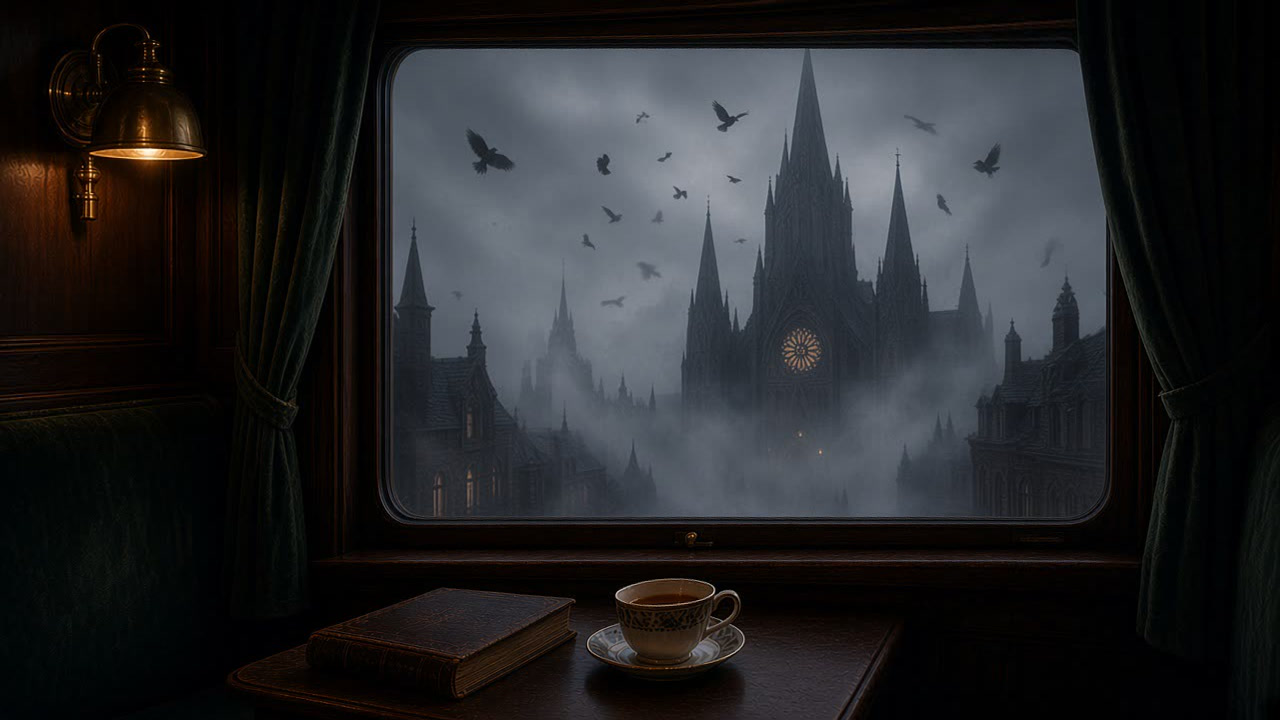
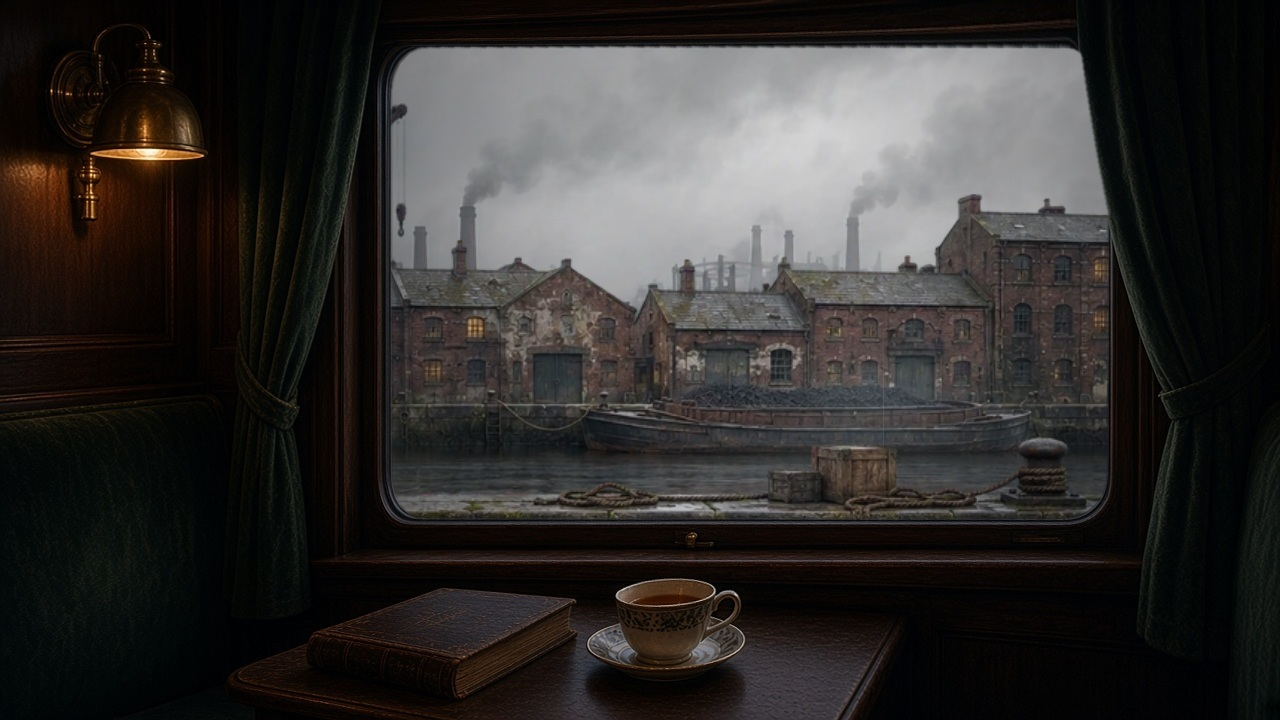
Recompose the Hollowmere journey with clear sightlines and a dusk arrival

diff --git a/js/window.js b/js/window.js
@@ -28,7 +28,9 @@ export class WindowRenderer {
     this.idx = -1; this.run = false;
     this._buildDistance();
     this.stripOrigins = new Map();
+    this.vistaEnds = new Map();
     for (const item of plan.items) {
+      if (item.scene?.panBackdrop) this.vistaEnds.set(item.scene, this.dist(item.end));
       if (item.scene?.paintedStrips && !this.stripOrigins.has(item.scene)) {
         this.stripOrigins.set(item.scene, this.dist(item.start));
       }
@@ -63,7 +65,7 @@ export class WindowRenderer {
     img.onload = () => { e.ok = true; }; img.onerror = () => { e.err = true; };
     img.src = this.base + src; return e;
   }
-  _assetsOf(it) { const s = it?.scene; if (!s) return []; return [s.backdrop, s.mid, s.near, s.landmark?.src, this.crossings[s.exitCut]].filter(Boolean); }
+  _assetsOf(it) { const s = it?.scene; if (!s) return []; return [s.backdrop, s.mid, s.near, s.landmark?.src, s.landmark?.type === 'tunnel' && this.cfg.tunnelWall, this.crossings[s.exitCut]].filter(Boolean); }
   /** Which cruise item is current; preloads its assets and the next few, frees the rest. */
   setItem(idx) {
     this.idx = idx; const items = this.plan.items, want = new Set([this.cfg.frame?.src, this.frame?.src]);
@@ -141,6 +143,18 @@ export class WindowRenderer {
         if (!src) return;
         const painted = scene.paintedStrips;
         const distance = painted ? F - this.stripOrigins.get(scene) : F;
+        if (key === 'backdrop' && scene.panBackdrop) {
+          const plate = this._img(src);
+          if (!plate.ok) return;
+          const span = this.vistaEnds.get(scene) - this.stripOrigins.get(scene);
+          const progress = clamp01(distance / Math.max(1, span));
+          const scale = Math.max(P.w * 1.22 / plate.img.naturalWidth, P.h * 1.03 / plate.img.naturalHeight);
+          const w = plate.img.naturalWidth * scale, h = plate.img.naturalHeight * scale;
+          c.globalAlpha = alpha;
+          c.drawImage(plate.img, P.x - progress * (w - P.w), P.y - (h - P.h) / 2, w, h);
+          c.globalAlpha = 1;
+          return;
+        }
         this._tile(this._img(src), speed, distance, painted ? 0 : ph(src), alpha,
           painted ? 'source-over' : comp, painted ? 0 : shift);
       };
@@ -150,15 +164,17 @@ export class WindowRenderer {
     layer('backdrop', sc.backdrop, 'source-over');
     const fg = S.fog || {}; const fogC = fg.color || '#aab4c4';
     this._fog(fogC, (fg.far ?? 0.35), sc.fogFar, F, 0.13, 0.28, 0.7);
+    // A passing landmark sits behind the shoreline, tree line or nearer rock shelf.
+    const lm = S.landmark;
+    if (lm && S.paintedStrips) this._landmark(it, lm, pos, F, sc);
     layer('mid', sc.mid, 'multiply');
-    // landmark pass-by: slides across the pane once
-    const lm = S.landmark; if (lm) this._landmark(it, lm, pos, F, sc);
+    if (lm && !S.paintedStrips) this._landmark(it, lm, pos, F, sc);
     this._fog(fogC, (fg.near ?? 0.28), sc.fogNear, F, 0.61, 0.5, 0.62);
     layer('near', sc.near, 'multiply', P.h * 0.015 * Math.sin(pos * 9.1) * swaySpeed);
     // weather
     this._weather(S, pv, a, pos, F, sp);
     // tunnel darkness (procedural landmark)
-    if (lm && lm.type === 'tunnel') this._tunnel(it, lm, pos);
+    if (lm && lm.type === 'tunnel') this._tunnel(it, lm, pos, F);
     if (arriving) this._crossing(arriving, pos - it.start);
     if (departing) this._crossing(departing, pos - it.end);
     // light: slow cloud drift + glass vignette
@@ -189,18 +205,28 @@ export class WindowRenderer {
     const c = this.c, P = this.pane, dh = P.h * (lm.height ?? 0.85), dw = dh * (lm.w && lm.h ? lm.w / lm.h : e.img.naturalWidth / e.img.naturalHeight);
     const u = (pos - win[0]) / (win[1] - win[0]), x = P.x + P.w + dw * 0.02 - u * (P.w + dw * 1.04), y = P.y + P.h * (lm.base ?? 0.95) - dh;
     const edge = smooth(u * 6) * smooth((1 - u) * 6);
-    c.globalCompositeOperation = 'multiply'; c.globalAlpha = (lm.alpha ?? 0.95) * (0.35 + 0.65 * edge);
+    c.globalCompositeOperation = it.scene.paintedStrips ? 'source-over' : 'multiply'; c.globalAlpha = (lm.alpha ?? 0.95) * (0.35 + 0.65 * edge);
     c.drawImage(e.img, x, y, dw, dh); c.globalAlpha = 1; c.globalCompositeOperation = 'source-over';
   }
-  _tunnel(it, lm, pos) {
+  _tunnel(it, lm, pos, F) {
     const win = this._landmarkWindow(it); if (!win) return; const t = pos - win[0], dur = win[1] - win[0]; if (t < -1 || t > dur + 1) return;
     const d = smooth(t / 3) * smooth((dur - t) / 3), c = this.c, P = this.pane;
-    c.fillStyle = `rgba(2,2,4,${0.97 * d})`; c.fillRect(P.x, P.y, P.w, P.h);
-    if (d > 0.3) for (let k = 0; k < 4; k++) {            // wall lamps rushing past
-      const period = 1.1, ph = mod(t / period + k * 0.27, 1), x = P.x + P.w - ph * (P.w + 200) + 100, f = 0.5 + 0.5 * Math.sin(t * 11 + k);
-      const gr = c.createLinearGradient(x - 90, 0, x + 90, 0); gr.addColorStop(0, 'rgba(255,200,120,0)'); gr.addColorStop(0.5, `rgba(255,205,130,${0.30 * d * f})`); gr.addColorStop(1, 'rgba(255,200,120,0)');
-      c.fillStyle = gr; c.fillRect(x - 90, P.y, 180, P.h);
-    }
+    const wall = this._img(this.cfg.tunnelWall);
+    if (wall?.ok) this._tile(wall, 235, F, 0, d, 'source-over');
+    c.fillStyle = `rgba(6,9,12,${(wall?.ok ? .76 : .97) * d})`;
+    c.fillRect(P.x, P.y, P.w, P.h);
+    if (d < .01) return;
+    const radius = P.h * .32, period = P.w * 1.32;
+    const x = P.x + P.w + radius - mod(F * 235 * P.h / 720, period);
+    const y = P.y + P.h * .43;
+    const glow = c.createRadialGradient(x, y, 0, x, y, radius);
+    glow.addColorStop(0, `rgba(224,158,77,${.32 * d})`);
+    glow.addColorStop(1, 'rgba(224,158,77,0)');
+    c.fillStyle = glow; c.fillRect(x-radius,y-radius,radius*2,radius*2);
+    c.fillStyle = `rgba(22,22,20,${d})`;
+    c.fillRect(x-5,y-9,10,18);
+    c.fillStyle = `rgba(246,194,114,${.90*d})`;
+    c.fillRect(x-2.5,y-6,5,11);
   }
   _weather(S, pv, a, pos, F, sp) {
     const c = this.c, P = this.pane, R = P.h / 720;
@@ -211,7 +237,7 @@ export class WindowRenderer {
       c.strokeStyle = 'rgba(205,220,238,0.33)'; c.lineWidth = Math.max(1, R * 1.1); c.beginPath();
       for (let i = 0; i < N; i++) {
         const sy = (520 + 420 * hash(i, 2)) * R, len = (10 + 20 * hash(i, 3)) * R, slant = (0.22 + 0.5 * spd * 0.35) * len;
-        const x = mod(hash(i, 1) * (P.w + 80) - pos * 40 * R * spd, P.w + 80) - 40, y = mod(hash(i, 4) * (P.h + 60) + pos * sy, P.h + 60) - 30;
+        const x = mod(hash(i, 1) * (P.w + 80) - (F * 34 + pos * 6) * R, P.w + 80) - 40, y = mod(hash(i, 4) * (P.h + 60) + pos * sy, P.h + 60) - 30;
         c.moveTo(P.x + x, P.y + y); c.lineTo(P.x + x - slant, P.y + y + len);
       }
       c.stroke();
@@ -225,8 +251,8 @@ export class WindowRenderer {
     if (snow > 0.01) {
       const N = Math.round(130 * snow); c.fillStyle = 'rgba(244,248,255,0.85)';
       for (let i = 0; i < N; i++) {
-        const z = hash(i, 11), r = (0.9 + 2.4 * z) * R, vx = (30 + 150 * z) * Math.max(0.2, sp) * R, vy = (22 + 40 * z) * R;
-        const x = mod(hash(i, 12) * (P.w + 60) - pos * vx + Math.sin(pos * 0.7 + i) * 8 * R, P.w + 60) - 30, y = mod(hash(i, 13) * (P.h + 40) + pos * vy, P.h + 40) - 20;
+        const z = hash(i, 11), r = (0.9 + 2.4 * z) * R, vx = (30 + 150 * z) * R, vy = (22 + 40 * z) * R;
+        const x = mod(hash(i, 12) * (P.w + 60) - (F * .8 + pos * .2) * vx + Math.sin(pos * 0.7 + i) * 8 * R, P.w + 60) - 30, y = mod(hash(i, 13) * (P.h + 40) + pos * vy, P.h + 40) - 20;
         c.globalAlpha = 0.35 + 0.55 * z; c.beginPath(); c.arc(P.x + x, P.y + y, r, 0, 7); c.fill();
       }
       c.globalAlpha = 1;

diff --git a/js/app.js b/js/app.js
@@ -37,15 +37,14 @@ function presetChips() {
 }
 function renderLibrary() {
   $('#view-library').innerHTML = `
-    <header class="top"><h1>Writing Sessions</h1><p>Immersive sprints for your stories</p></header>
+    <header class="top"><h1>Writing Sessions</h1><p>${summary().text}</p></header>
     <div class="cards">${themes.map(t => `
       <button class="card-theme" data-theme="${esc(t.id)}">
         <div class="cover" style="background-image:url('${ASSET}themes/${esc(t.id)}/${esc(t.cover)}')"></div>
         <div class="meta"><h2>${esc(t.title)}</h2><p>${esc(t.description)}</p>
-        <span class="pill">${t.schema >= 2 ? `${t.legs.length} legs · ${t.legs.reduce((a, l) => a + (l.segments || l.views).length, 0)} views · ${t.legs.reduce((a, l) => a + l.music.length, 0)} songs` : `${(t.scenes || []).length} scenes`}${t.status === 'private' ? ' · private' : ''}</span></div>
+        <div class="journey-actions"><span class="journey-details">${t.schema >= 2 ? `${t.legs.length} legs · ${t.legs.reduce((a, l) => a + (l.segments || l.views).length, 0)} views · ${t.legs.reduce((a, l) => a + l.music.length, 0)} songs` : `${(t.scenes || []).length} scenes`}${t.status === 'private' ? ' · private' : ''}</span><span class="choose-session">Set up session</span></div></div>
       </button>`).join('') || '<p class="muted">No themes yet.</p>'}
-    </div>
-    <p class="muted center small">More themes appear here as they are made — use the Request tab.</p>`;
+    </div>`;
   $('#view-library').querySelectorAll('[data-theme]').forEach(b => b.onclick = () => openSheet(themes.find(t => t.id === b.dataset.theme)));
 }
 function openSheet(t) {
@@ -61,7 +60,7 @@ function openSheet(t) {
       <p class="muted small center">Tap to start — sound begins when you do. <a href="#" id="to-settings">Custom lengths in Settings</a></p>
     </div>`;
   sh.querySelector('.sheet-x').onclick = () => sh.hidden = true;
-  sh.querySelectorAll('[data-preset]').forEach(b => b.onclick = () => { applyPreset(b.dataset.preset); openSheet(t); });
+  sh.querySelectorAll('[data-preset]').forEach(b => b.onclick = () => { applyPreset(b.dataset.preset); renderLibrary(); openSheet(t); });
   $('#to-settings').onclick = (e) => { e.preventDefault(); sh.hidden = true; setTab('settings'); };
   $('#begin').onclick = () => { sh.hidden = true; begin(t); };
 }

diff --git a/css/app.css b/css/app.css
@@ -26,8 +26,12 @@ body.playing .tabs { display:none; }
 .cover { background-size:cover; background-position:center; aspect-ratio:16/9; }
 .cover.small { border-radius:14px; margin-bottom:14px; }
 .meta { padding:14px 16px 16px; } .meta h2 { font-weight:500; font-size:1.3rem; margin:0 0 .35rem; } .meta p { margin:0 0 .7rem; color:var(--muted); font-size:.95rem; line-height:1.4; }
-.pill { display:inline-block; font-size:.72rem; letter-spacing:.08em; border:1px solid var(--line); border-radius:99px; padding:3px 10px; color:var(--accent); }
 
+.journey-actions { display:flex; align-items:center; justify-content:space-between; flex-wrap:wrap; gap:.6rem; margin-top:1rem; border-top:1px solid var(--line); padding-top:.85rem; }
+.journey-details { color:var(--muted); font-size:.85rem; }
+.choose-session { background:var(--accent); color:#211b11; font:600 .9rem/1.3 system-ui,sans-serif; padding:.6rem .85rem; border-radius:.5rem; }
+.card-theme:focus-visible,.card-theme:hover { border-color:var(--accent); }
+button:focus-visible { outline:2px solid var(--accent); outline-offset:2px; }
 .chips { display:grid; grid-template-columns:1fr 1fr; gap:10px; }
 .chip { background:var(--card); border:1px solid var(--line); border-radius:14px; padding:12px; text-align:left; display:flex; flex-direction:column; gap:3px; }
 .chip b { font-weight:500; font-size:1.05rem; } .chip small { color:var(--muted); font-size:.78rem; }

diff --git a/js/journey.js b/js/journey.js
@@ -21,7 +21,7 @@ export function chainOf(m) {
         views: leg.segments.map((v, vi) => ({
           id: v.id, title: v.title, kind: 'cruise', leg: li, view: vi, clip: null, still: v.backdrop, dur: 0, next: null, ambience: mergeLayers(base, v.ambience),
           introViewSeconds: v.introViewSeconds,
-          scene: { paintedStrips: v.paintedStrips, exitCut: v.exitCut, backdrop: v.backdrop, mid: v.mid, near: v.near || leg.near, fog: { ...(leg.fog || {}), ...(v.fog || {}) }, weather: { ...(leg.weather || {}), ...(v.weather || {}) }, landmark: v.landmark || null },
+          scene: { panBackdrop: v.panBackdrop, paintedStrips: v.paintedStrips, exitCut: v.exitCut, backdrop: v.backdrop, mid: v.mid, near: v.near || leg.near, fog: { ...(leg.fog || {}), ...(v.fog || {}) }, weather: { ...(leg.weather || {}), ...(v.weather || {}) }, landmark: v.landmark || null },
         })) });
       return;
     }

diff --git a/index.html b/index.html
@@ -2,7 +2,7 @@
 <html lang="en">
 <head>
 <meta charset="utf-8">
-<meta name="viewport" content="width=device-width, initial-scale=1, viewport-fit=cover, user-scalable=no">
+<meta name="viewport" content="width=device-width, initial-scale=1, viewport-fit=cover">
 <title>Writing Sessions</title>
 <meta name="description" content="Immersive writing sprints with slow cinematic scenes, ambience and chimes.">
 <meta name="theme-color" content="#0d0e0c">

diff --git a/tools/build_train_manifest.py b/tools/build_train_manifest.py
@@ -65,7 +65,7 @@ m = {
  'status': 'published', 'owner': 'kevin', 'origin': {'type': 'owner', 'requestId': None, 'requestedBy': None},
  'createdAt': '2026-11-21', 'version': 3,
  'designedFor': {'sprintMin': 25, 'breakMin': 5, 'sprints': 4, 'intro': True, 'outro': True},
- 'render': {'type': 'window', 'sway': False, 'crossings': {'bridge': 'zones/city/dock-bridge.webp', 'gardenWall': 'zones/city/garden-wall.webp'}, 'objectPosition': '50% 50%', 'size': [1280, 720], 'frame': {'src': 'frame/overlay.png', 'pane': json.load(open(os.path.join(T, 'frame', 'pane.json')))}},
+ 'render': {'type': 'window', 'sway': False, 'tunnelWall': 'zones/mountains/tunnel-masonry.webp', 'crossings': {'bridge': 'zones/city/dock-bridge.webp', 'gardenWall': 'zones/city/garden-wall.webp'}, 'objectPosition': '50% 50%', 'size': [1280, 720], 'frame': {'src': 'frame/overlay.png', 'pane': json.load(open(os.path.join(T, 'frame', 'pane.json')))}},
  'style': {'camera': 'Seated eye level, locked off, one centered window filling the middle ~70% of a 16:9 frame', 'interior': 'Dark mahogany panels, bottle-green velvet curtains tied back at both edges, brass sconce upper left, leather book + teacup on the ledge',
            'palette': 'Warm amber interior vs cool desaturated exterior', 'lens': '35mm, light film grain, painterly cinematic realism', 'motion': 'Exterior is procedural parallax behind the frame: always moving, landmarks slide past once', 'reference': 'stills/master reference kept in the theme workspace'},
  'ambienceLib': ambLib,
@@ -84,10 +84,10 @@ for li, g in enumerate(LEGS):
         segs.append({'id': 'wealthy-quarter', 'title': 'The wealthy quarter', 'backdrop': 'zones/city/rich-skyline.webp', 'mid': 'zones/city/rich-houses.webp', 'near': 'zones/city/rich-gardens.webp', 'paintedStrips': True, 'fog': {'color': '#a0a09a', 'far': 0.45, 'near': 0.19}})
     for sid, st, bd, md, lm, amb, wx, at in g['segs']:
         if lm == 'tunnel': L_ = {'type': 'tunnel', 'dur': 24, 'at': at, 'ambience': [L('tunnel', .9), L('wind_high', 0), L('train', .6)]}   # extra layers only while the tunnel passes
-        else: w, h = LM[f'{z} {lm}']; L_ = {'src': f'zones/{z}/{lm}.jpg', 'w': w, 'h': h, 'dur': 26, 'at': at, 'height': .85, 'base': .95}
-        segs.append({'id': sid, 'title': st, 'backdrop': f'zones/{z}/{bd}.jpg', 'mid': f'zones/{z}/{md}.jpg', 'weather': wx, 'ambience': amb, 'landmark': L_})
+        else: w, h = LM[f'{z} {lm}']; L_ = {'src': f'zones/{z}/{lm}.webp', 'w': w, 'h': h, 'dur': 26, 'at': at, 'height': .58 if z in ('mountains', 'city') else .50, 'base': 1.1}
+        segs.append({'id': sid, 'title': st, 'backdrop': f'zones/{z}/vista-{bd[1:]}.webp', 'paintedStrips': True, 'panBackdrop': True, 'mid': 'zones/forest/m1.webp' if sid == 'm4' else f'zones/{z}/{md}.webp', 'weather': wx, 'ambience': amb, 'landmark': L_})
     m['legs'].append({'id': g['id'], 'title': g['title'], 'from': a, 'to': b, 'ambience': g['amb'], 'music': g['music'], 'speed': g['speed'],
-                      'near': f'zones/{z}/near.jpg', 'fog': g['fog'], 'segments': segs})
+                      'near': f'zones/{z}/verge.webp', 'fog': g['fog'], 'segments': segs})
 m['credits'] = [{'kind': 'music', 'title': t['title'], 'author': A, 'license': "Generated in Kevin's Suno Pro account (commercial use per Suno Pro terms)"} for l in m['legs'] for t in l['music']] + credits
 json.dump(m, open(os.path.join(T, 'manifest.json'), 'w'), indent=1, ensure_ascii=False)
 print('manifest written')
